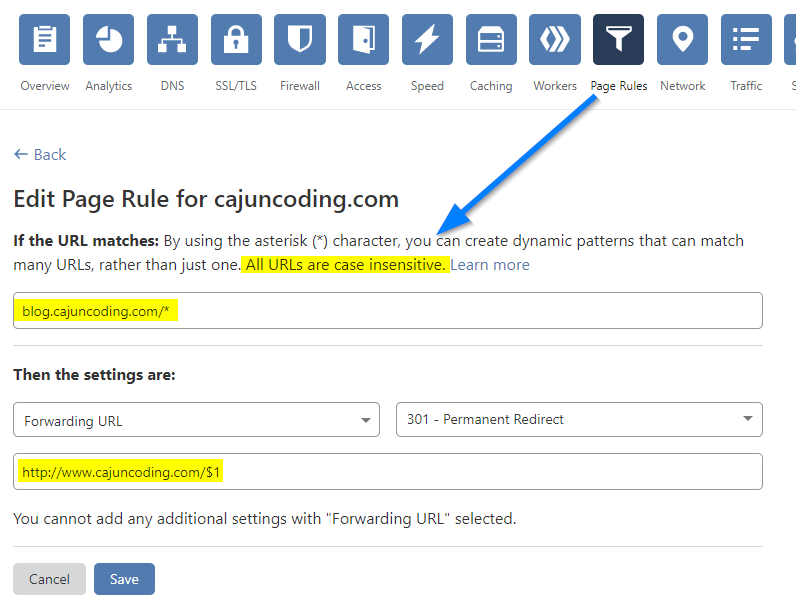
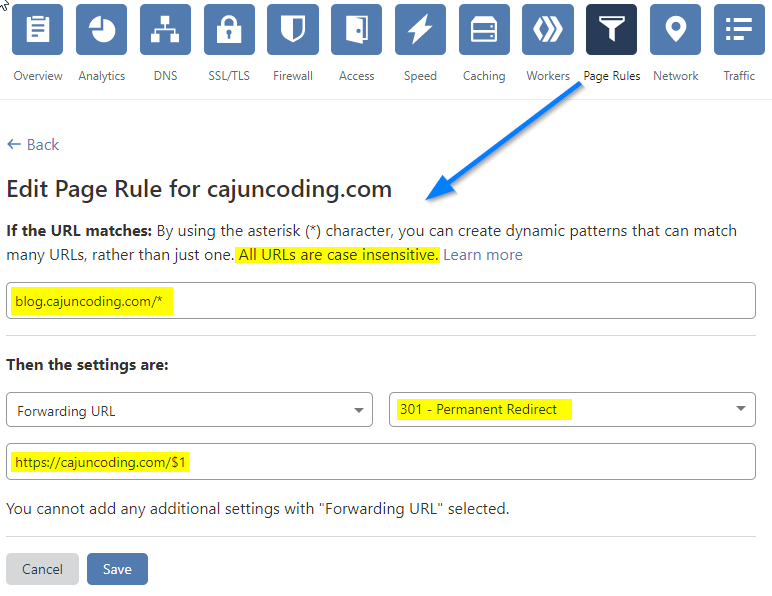
blog editing and image updates

diff --git a/_posts/2020-07-22-dynamic-cloudflare-dns-subdomain-redirect.md b/_posts/2020-07-22-dynamic-cloudflare-dns-subdomain-redirect.md
@@ -10,33 +10,34 @@ share-img: >-
   /assets/img/2020-07-21-dynamic-cloudflare-dns-for-github-pages/cf-logo-v-rgb-edited-square.png
 tags: [dns, infrastructure, cloudflare, github]
 ---
-In my last post about CloudFlare I outlined how we could set up an Apex domain for GitHub Pages via a CNAME record.  But, what if you wanted to share alias urls that used a different or unique subdomain and you wanted those to be redirected/routed to the same site?  This is necessary for GitHub Pages since there is limitation for only one custom domain that can be configured per site.
+In my [last post about CloudFlare](2020-07-21-dynamic-cloudflare-dns-for-github-pages) I outlined how we could set up an Apex domain for GitHub Pages via a CNAME record.  But, what if you wanted to share alias urls that used a different or unique subdomain and you wanted those to be redirected/routed to the same site?  This is necessary for GitHub Pages since there is a limitation for only one custom domain that can be configured per site.
 
 Well Cloudflare offers a pretty simple, yet very useful capability to manage these routes with [Page Rules](https://support.cloudflare.com/hc/en-us/articles/218411427-Understanding-and-Configuring-Cloudflare-Page-Rules-Page-Rules-Tutorial-). In the free account you get 3 page rules to setup however you want; additional ones can be purchased.  But, 3 should suffice if all you need are a couple global/generic routing rules.
 
-In my case I thought that it would be useful if I wanted to share links using the very friendly domain _blog.cajuncoding.com_, but have that redirect to the primary apex domain (since I don't actually have a separate site. 
+In my case I thought that it would be useful to share links using the very friendly domain _blog.cajuncoding.com_, but have that redirect to the primary apex domain -- since I don't actually have a separate site, and [GitHub Pages doesn't support it](#github-limit-of-one-domain). 
 
 In CloudFlare, just navigate to **Page Rules** & create a new page rule:
 <img src="../assets/img/2020-07-22-dynamic-cloudflare-dns-subdomain-redirect/navigate-to-page-rules.png " class="fullsize" data-zoomable />
 
-Now this works just like a simple masking expression where we can use wildcards to make this flexible.  In my case I wanted all requests (regardless of thier path) to just redirect to the main site.  
+Now this works just like a simple matching expression where we can use wildcards to make the pattern flexible (_not quite like regex; more like the good-ole DOS dir *.* command_).  In my case I wanted all requests (regardless of the full url path) to just redirect to the main site and work as expected.  
 
 So a user could browse to this post using either of these urls and arrive where I expect them to:
 - [https://cajuncoding.com/*](https://cajuncoding.com/2020-07-22-dynamic-cloudflare-dns-subdomain-redirect)
-- [https://blog.cajuncoding.com/*2020-07-22-dynamic-cloudflare-dns-subdomain-redirect*](https://cajuncoding.com/2020-07-22-dynamic-cloudflare-dns-subdomain-redirect)
+- [https://blog.cajuncoding.com/*](https://cajuncoding.com/2020-07-22-dynamic-cloudflare-dns-subdomain-redirect)
 
-We do that by matching all requests for _blog.cajuncoding.com_ and use a wildcard **/*** for the remaining part of the path. Then we use the variable replacement feature using **$1** (e.g. backreference to the wildcard capture) to ensure that the target/destination route still contains the full path.  CloudFlare is already handling our protocal (http/https) for us so that is of no consequence.
+We do that by matching all requests for _blog.cajuncoding.com_ and use a wildcard **/*** for the remaining part of the path. Then we use the variable replacement feature using **$1** (e.g. backreference to the wildcard capture) to ensure that the target/destination route still contains the full path.  We also want to be protocol agnostic, so we match any incoming protocal (by not including it), and ensure that the destination is using **https**; this is helpful in my case because we already have CloudFlare enforcing _https_ so this saves any additional redirections.
 
 ### Page Rule Patterns
 So the Matching Pattern is: `blog.cajuncoding.com/*`
 
 And the destination pattern is: `cajuncoding.com/$1`
 
-You can choose if you want the redirection to tell the clients that it's permanent (like I do) or temporary; meaning that you may really want to have a different site in the future.
+You can choose if you want the redirection to tell the client that it's permanent (like I do) or temporary; meaning that you may really want to have a different site in the future.
 
 ### And here's the configured rule:
 <img src="../assets/img/2020-07-22-dynamic-cloudflare-dns-subdomain-redirect/blog-page-rule-configuration.png " class="fullsize" data-zoomable />
 
+<a name="github-limit-of-one-domain">
 ### Why a redirection?
 The reason that I have to redirect and can't use this as the main domain is related to a limitation in GitHub Pages that only allows me to configure one custom domain for it to use.  
 

diff --git a/_posts/2020-07-21-dynamic-cloudflare-dns-for-github-pages.md b/_posts/2020-07-21-dynamic-cloudflare-dns-for-github-pages.md
@@ -50,4 +50,4 @@ _Fyi, this part was also addressed in [Rick Pauloo's write-up above](https://ric
 
 NOTE: GitHub Pages will dynamically bind both the Apex domain _cajuncoding.com_ as well as the default web sub-domain of _www.cajuncoding.com_.  But no other subdomains will be supported.
 
-**I'll touch on how we can pretty easily redirect other custom sub-domains such as _blog.cajuncoding.com_ using CloudFlare in another post.**
+**I touch on how we can redirect other custom sub-domains such as _blog.cajuncoding.com_ using CloudFlare [in this next post](2020-07-22-dynamic-cloudflare-dns-subdomain-redirect).**
